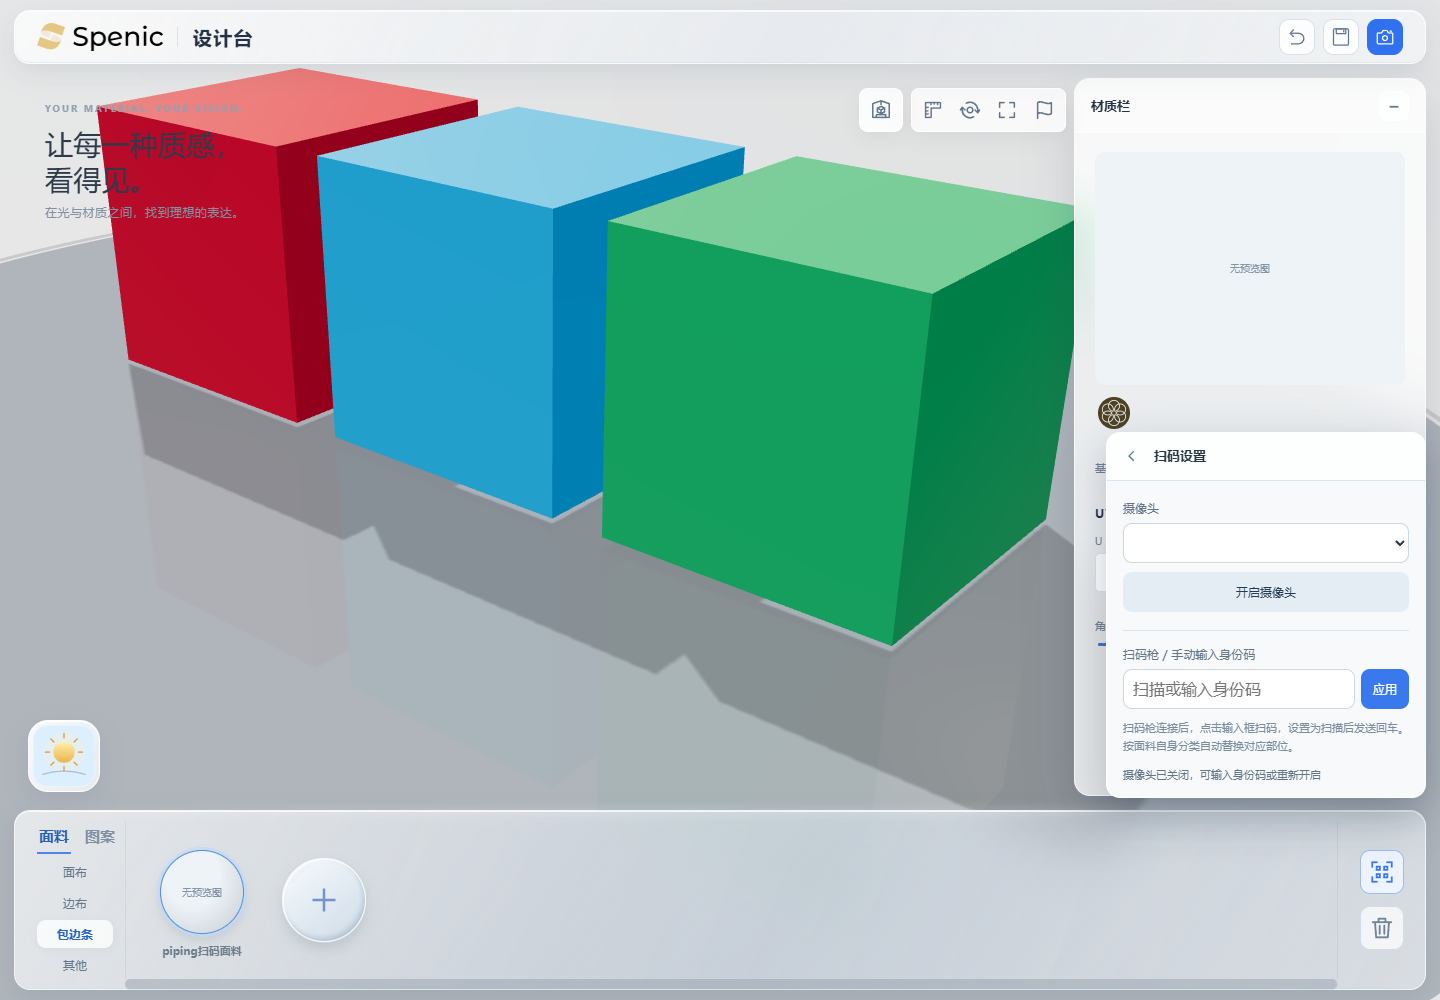
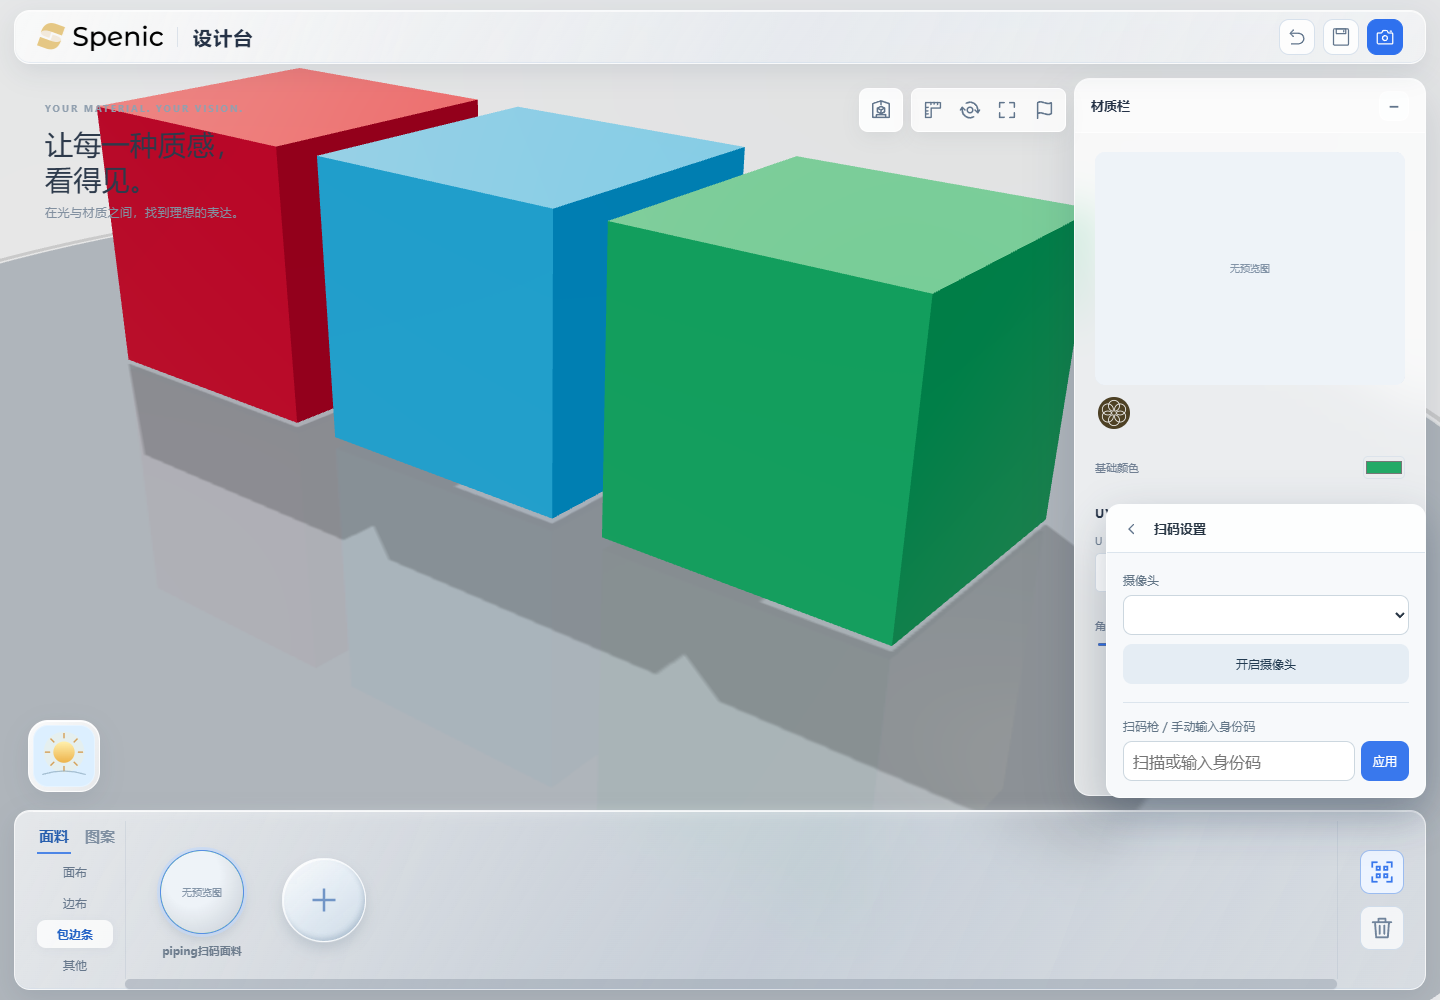
1

diff --git a/fabric-scan.css b/fabric-scan.css
@@ -2,6 +2,8 @@
 .fabric-identity{padding:18px 0;border-top:1px solid #dce3e9;margin-top:18px;color:#263442;min-width:0}
 .fabric-identity h3{font-size:15px;margin:0 0 8px}.fabric-identity p{font-size:12px;line-height:1.7;margin:6px 0;color:#607080}.fabric-identity-qr{display:block;width:164px;height:164px;max-width:100%;background:white;border-radius:8px}.fabric-identity-code{display:block;overflow-wrap:anywhere;font-size:11px;margin:8px 0;font-variant-numeric:tabular-nums}.fabric-identity-actions{display:flex;gap:8px;flex-wrap:wrap}.fabric-identity-actions button{border:1px solid #cdd7df;background:#fff;padding:8px 12px;border-radius:8px;color:#263442;cursor:pointer}
 .fabric-scan-dialog{--scan-size:min(224px,calc(100vw - 24px),var(--fabric-scan-space,calc(100dvh - 280px)));box-sizing:border-box;position:fixed;inset:auto var(--fabric-scan-right,14px) var(--fabric-scan-bottom,202px) auto;width:var(--scan-size);max-width:calc(100vw - 24px);max-height:calc(100dvh - 24px);aspect-ratio:1;margin:0;padding:0;overflow:hidden;z-index:25;border:1px solid #ffffffc9;border-radius:14px;background:#142334;color:#fff;box-shadow:0 14px 42px #132c4640;font:13px/1.5 'Microsoft YaHei','Segoe UI',sans-serif}
+/* Explicit height keeps the camera visible in WebKit dialogs with absolute children. */
+.fabric-scan-dialog{height:var(--scan-size)}
 .fabric-scan-dialog:not([open]){display:none}
 .fabric-scan-heading{position:relative;z-index:2;display:flex;align-items:center;gap:5px;height:44px;padding:5px 8px}
 .fabric-scan-heading h2{flex:1;min-width:0;margin:0;font-size:13px;line-height:20px;font-weight:600}
@@ -10,24 +12,20 @@
 .fabric-scan-icon svg{display:block;width:18px;height:18px;fill:none;stroke:currentColor;stroke-width:1.7;stroke-linecap:round;stroke-linejoin:round}
 .fabric-scan-camera-view{position:absolute;inset:0;background:radial-gradient(circle at center,#28455d,#142334)}
 .fabric-scan-video{display:block;width:100%;height:100%;object-fit:cover;object-position:center}
-.fabric-scan-guide{position:absolute;inset:25%;border:1px solid #ffffff66;border-radius:12px;pointer-events:none}
-.fabric-scan-status{font-size:11px;line-height:17px;overflow-wrap:anywhere}
-.fabric-scan-dialog:not(.is-settings) .fabric-scan-heading h2,.fabric-scan-dialog:not(.is-settings) .fabric-scan-status{position:absolute;width:1px;height:1px;padding:0;margin:-1px;overflow:hidden;clip-path:inset(50%);white-space:nowrap;border:0}
+.fabric-scan-guide{position:absolute;inset:10%;border:1px solid #ffffff66;border-radius:12px;pointer-events:none}
+.fabric-scan-dialog:not(.is-settings) .fabric-scan-heading h2,.fabric-scan-status{position:absolute;width:1px;height:1px;padding:0;margin:-1px;overflow:hidden;clip-path:inset(50%);white-space:nowrap;border:0}
 .fabric-scan-dialog.is-settings{width:min(320px,calc(100vw - 24px));aspect-ratio:auto;max-height:calc(100dvh - var(--fabric-scan-bottom,202px) - 12px);overflow:auto;background:#f7f9fb;color:#263442}
+.fabric-scan-dialog.is-settings{height:auto}
 .fabric-scan-dialog.is-settings .fabric-scan-heading{height:48px;background:#ffffffc9;border-bottom:1px solid #dce5ed}
 .fabric-scan-dialog.is-settings .fabric-scan-icon{border-color:transparent;background:transparent;color:#61758c;box-shadow:none}
 @media(hover:hover) and (pointer:fine){.fabric-scan-dialog .fabric-scan-icon:hover{background:#162535cc}.fabric-scan-dialog.is-settings .fabric-scan-icon:hover{background:#e5edf4}}
-.fabric-scan-settings-page{padding:4px 16px 0}
+.fabric-scan-settings-page{padding:4px 16px 16px}
 .fabric-scan-settings-page label{display:block;margin:14px 0 6px;font-size:12px;color:#627586}
 .fabric-scan-settings-page form{margin:18px 0 0;border-top:1px solid #dce5ed}
 .fabric-scan-input-row{display:flex;gap:6px}
 .fabric-scan-input-row input,.fabric-scan-dialog select{box-sizing:border-box;min-width:0;width:100%;height:40px;border:1px solid #ccd7df;border-radius:9px;background:#fff;padding:0 9px;font:16px 'Segoe UI',sans-serif;color:inherit}
 .fabric-scan-submit,.fabric-scan-camera{border:0;border-radius:9px;padding:9px 12px;white-space:nowrap;background:#3978ed;color:#fff;font-family:inherit;font-size:12px;line-height:22px;cursor:pointer}
 .fabric-scan-camera{width:100%;margin-top:9px;background:#e5edf4;color:#233c52}
-.fabric-scan-hint{font-size:11px;line-height:1.7;color:#7a8da0;margin:10px 0}
-.fabric-scan-dialog.is-settings .fabric-scan-status{position:static;min-height:0;margin:0;padding:0 16px 14px;background:none;color:#627586}
-.fabric-scan-dialog.is-settings .fabric-scan-status[data-state=error]{color:#ab3434}
-.fabric-scan-dialog.is-settings .fabric-scan-status[data-state=success]{color:#21714c}
 .fabric-scan-dialog button:disabled{opacity:.5;cursor:default}
 .fabric-scan-dialog button:focus-visible,.fabric-scan-dialog input:focus-visible,.fabric-scan-dialog select:focus-visible,.fabric-identity button:focus-visible{outline:2px solid #84b8fa;outline-offset:2px}
 .dock-delete-tools{flex-direction:column;gap:12px}

diff --git a/shared/fabric-scanner.js b/shared/fabric-scanner.js
@@ -23,7 +23,6 @@ export function mountFabricScanner({ button, apply }) {
         <label for="fabricScanInput">扫码枪 / 手动输入身份码</label>
         <div class="fabric-scan-input-row"><input id="fabricScanInput" name="identity" autocomplete="off" spellcheck="false" placeholder="扫描或输入身份码" aria-describedby="fabricScanStatus"><button class="fabric-scan-submit" type="submit">应用</button></div>
       </form>
-      <p class="fabric-scan-hint">扫码枪连接后，点击输入框扫码，设置为扫描后发送回车。按面料自身分类自动替换对应部位。</p>
     </section>
     <p id="fabricScanStatus" class="fabric-scan-status" role="status" aria-live="polite">正在开启摄像头…</p>`;
   document.body.append(dialog);

diff --git a/使用说明.md b/使用说明.md
@@ -38,7 +38,7 @@
 
 每个具体色号有独立身份码；编辑同一面料保留原码，创建副本生成新码。扫描时读取最新保存的面料；旧资产不迁移、不补发身份码。无需新增数据库表或执行 SQL 迁移。
 
-设计台材质栏右侧的二维码图标打开小型方形相机窗口，并直接申请摄像头权限；再次点击该图标或按 Esc 关闭。主窗口仅保留相机画面和右上角的设置按钮，点击设置进入二级页面，可查看扫码状态、选择或启停摄像头、使用扫码枪或手动输入身份码后按回车；返回后继续相机扫码。USB / 蓝牙扫码枪使用支持二维码的 HID 键盘模式，设置扫描完成后发送回车；系统完成设备连接，无需在网页中配对。
+设计台材质栏右侧的二维码图标打开小型方形相机窗口，并直接申请摄像头权限；再次点击该图标或按 Esc 关闭。主窗口仅保留相机画面和右上角的设置按钮，点击设置进入二级页面，可选择或启停摄像头、使用扫码枪或手动输入身份码后按回车；返回后继续相机扫码。USB / 蓝牙扫码枪使用支持二维码的 HID 键盘模式，设置扫描完成后发送回车；系统完成设备连接，无需在网页中配对。
 
 扫码按面料本身的分类替换模型全部已配置的对应部位，例如“边布”面料只替换模型配置的“边布”，与底栏当前分类无关。没有匹配目标时会提示先配置模型。每次替换可撤销，并随项目保存和恢复。
 
